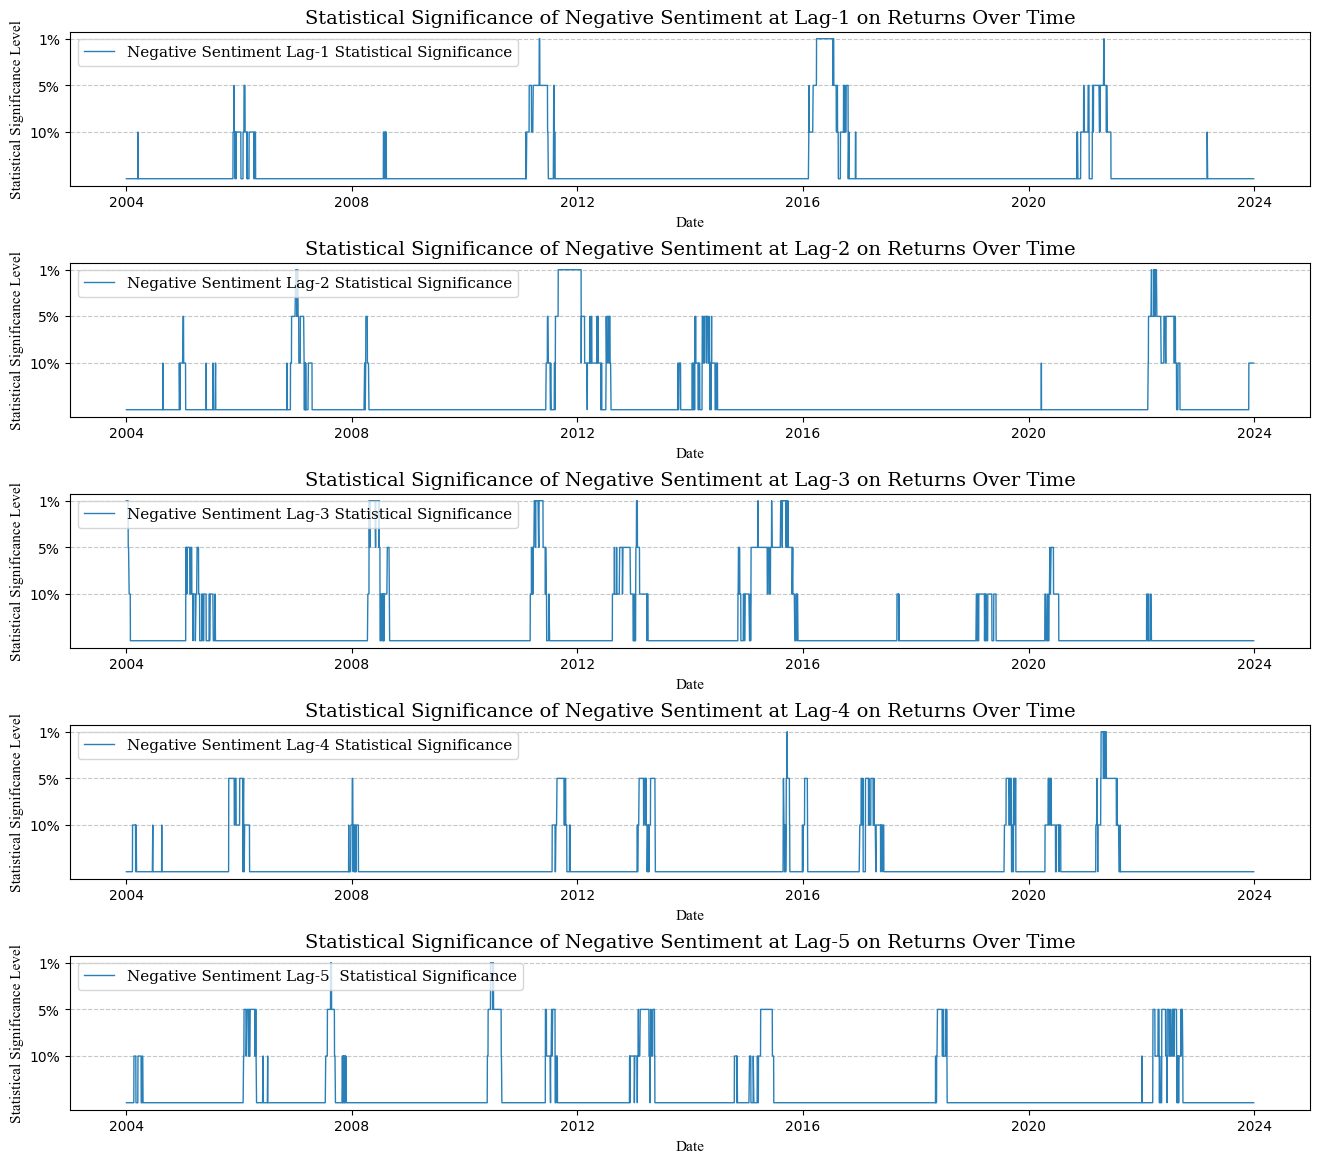
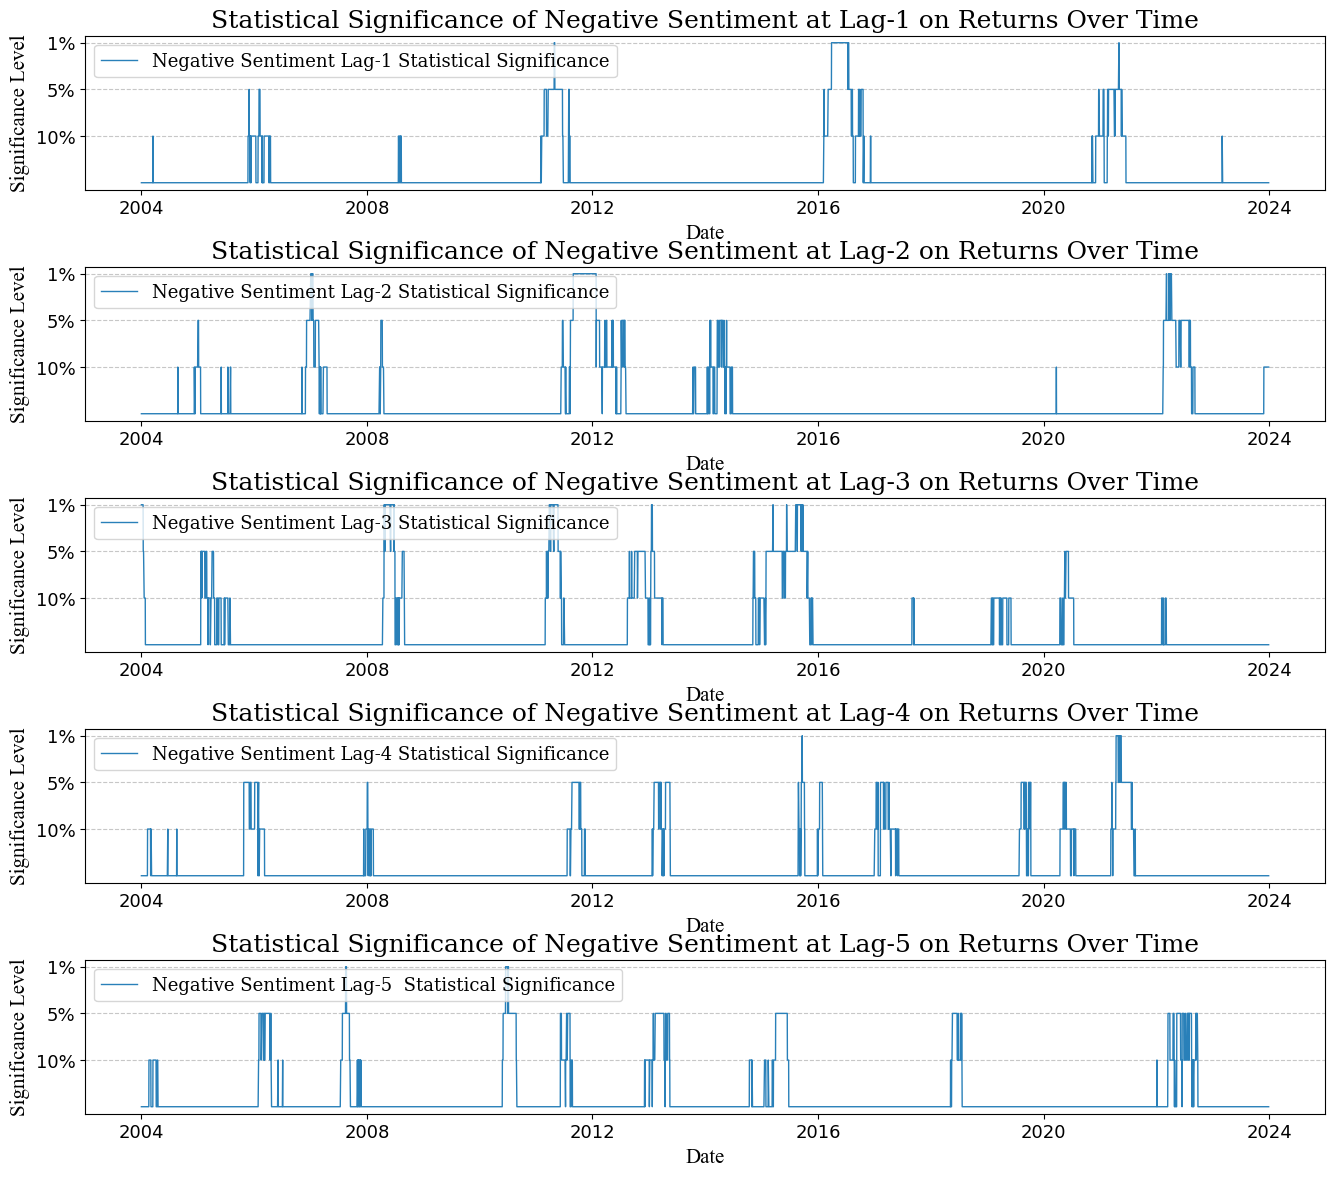
plots

diff --git a/Plot_Rolling_VAR_Results.py b/Plot_Rolling_VAR_Results.py
@@ -42,14 +42,14 @@ ax5.plot(datetime_objs, neg_significance_levels[4], label='Negative Sentiment La
 
 # Plot settings
 for i, ax in enumerate([ax1, ax2, ax3, ax4, ax5]):
-    ax.set_title(f'Statistical Significance of Negative Sentiment at Lag-{i+1} on Returns Over Time', fontsize=14, fontfamily='serif')
+    ax.set_title(f'Statistical Significance of Negative Sentiment at Lag-{i+1} on Returns Over Time', fontsize=18, fontfamily='serif')
     ax.xaxis.set_major_formatter(mdates.DateFormatter('%Y'))
-    ax.legend(fontsize=11, loc='upper left', prop={'family': 'serif', 'size': 11})
-    ax.set_xlabel('Date', fontsize=11, fontname='Times New Roman')
-    ax.set_ylabel('Statistical Significance Level', fontsize=11, fontname='Times New Roman')
+    ax.legend(fontsize=13, loc='upper left', prop={'family': 'serif', 'size': 13})
+    ax.set_xlabel('Date', fontsize=15, fontname='Times New Roman')
+    ax.set_ylabel('Significance Level', fontsize=15, fontname='Times New Roman')
     ax.set_yticks([1, 2, 3], ['10%', '5%', '1%'])
     ax.grid(axis='y', linestyle='--', alpha=0.7)
-    ax.tick_params(axis='both', which='major', labelsize=10)
+    ax.tick_params(axis='both', which='major', labelsize=13)
 
 plt.subplots_adjust(hspace=.5)
 plt.savefig('Plots/Returns_Negative_Sentiment_Significance.png', bbox_inches='tight')
@@ -81,14 +81,14 @@ ax5.plot(datetime_objs, count_significance_levels[4], label='Article Count Lag-5
 
 # Plot settings
 for i, ax in enumerate([ax1, ax2, ax3, ax4, ax5]):
-    ax.set_title(f'Statistical Significance of Article Count at Lag-{i+1} on Returns Over Time', fontsize=14, fontfamily='serif')
+    ax.set_title(f'Statistical Significance of Article Count at Lag-{i+1} on Returns Over Time', fontsize=18, fontfamily='serif')
     ax.xaxis.set_major_formatter(mdates.DateFormatter('%Y'))
-    ax.legend(fontsize=11, loc='upper left', prop={'family': 'serif', 'size': 11})
-    ax.set_xlabel('Date', fontsize=11, fontname='Times New Roman')
-    ax.set_ylabel('Statistical Significance Level', fontsize=11, fontname='Times New Roman')
+    ax.legend(fontsize=13, loc='upper left', prop={'family': 'serif', 'size': 13})
+    ax.set_xlabel('Date', fontsize=15, fontname='Times New Roman')
+    ax.set_ylabel('Significance Level', fontsize=15, fontname='Times New Roman')
     ax.set_yticks([1, 2, 3], ['10%', '5%', '1%'])
     ax.grid(axis='y', linestyle='--', alpha=0.7)
-    ax.tick_params(axis='both', which='major', labelsize=10)
+    ax.tick_params(axis='both', which='major', labelsize=13)
 
 plt.subplots_adjust(hspace=.5)
 plt.savefig('Plots/Returns_Article_Count_Significance.png', bbox_inches='tight')
@@ -132,14 +132,14 @@ ax5.plot(datetime_objs, neg_significance_levels[4], label='Negative Sentiment La
 
 # Plot settings
 for i, ax in enumerate([ax1, ax2, ax3, ax4, ax5]):
-    ax.set_title(f'Statistical Significance of Negative Sentiment at Lag-{i+1} on Absolute_Returns Over Time', fontsize=14, fontfamily='serif')
+    ax.set_title(f'Statistical Significance of Negative Sentiment at Lag-{i+1} on Absolute_Returns Over Time', fontsize=18, fontfamily='serif')
     ax.xaxis.set_major_formatter(mdates.DateFormatter('%Y'))
-    ax.legend(fontsize=11, loc='upper left', prop={'family': 'serif', 'size': 11})
-    ax.set_xlabel('Date', fontsize=11, fontname='Times New Roman')
-    ax.set_ylabel('Statistical Significance Level', fontsize=11, fontname='Times New Roman')
+    ax.legend(fontsize=13, loc='upper left', prop={'family': 'serif', 'size': 13})
+    ax.set_xlabel('Date', fontsize=15, fontname='Times New Roman')
+    ax.set_ylabel('Significance Level', fontsize=15, fontname='Times New Roman')
     ax.set_yticks([1, 2, 3], ['10%', '5%', '1%'])
     ax.grid(axis='y', linestyle='--', alpha=0.7)
-    ax.tick_params(axis='both', which='major', labelsize=10)
+    ax.tick_params(axis='both', which='major', labelsize=13)
 
 plt.subplots_adjust(hspace=.5)
 plt.savefig('Plots/Absolute_Returns_Negative_Sentiment_Significance.png', bbox_inches='tight')
@@ -171,14 +171,14 @@ ax5.plot(datetime_objs, count_significance_levels[4], label='Article Count Lag-5
 
 # Plot settings
 for i, ax in enumerate([ax1, ax2, ax3, ax4, ax5]):
-    ax.set_title(f'Statistical Significance of Article Count at Lag-{i+1} on Absolute_Returns Over Time', fontsize=14, fontfamily='serif')
+    ax.set_title(f'Statistical Significance of Article Count at Lag-{i+1} on Absolute_Returns Over Time', fontsize=18, fontfamily='serif')
     ax.xaxis.set_major_formatter(mdates.DateFormatter('%Y'))
-    ax.legend(fontsize=11, loc='upper left', prop={'family': 'serif', 'size': 11})
-    ax.set_xlabel('Date', fontsize=11, fontname='Times New Roman')
-    ax.set_ylabel('Statistical Significance Level', fontsize=11, fontname='Times New Roman')
+    ax.legend(fontsize=13, loc='upper left', prop={'family': 'serif', 'size': 13})
+    ax.set_xlabel('Date', fontsize=15, fontname='Times New Roman')
+    ax.set_ylabel('Significance Level', fontsize=15, fontname='Times New Roman')
     ax.set_yticks([1, 2, 3], ['10%', '5%', '1%'])
     ax.grid(axis='y', linestyle='--', alpha=0.7)
-    ax.tick_params(axis='both', which='major', labelsize=10)
+    ax.tick_params(axis='both', which='major', labelsize=13)
 
 plt.subplots_adjust(hspace=.5)
 plt.savefig('Plots/Absolute_Returns_Article_Count_Significance.png', bbox_inches='tight')

diff --git a/RYAAY_distribution.py b/RYAAY_distribution.py
@@ -88,9 +88,10 @@ def get_descriptive_stats(returns):
     data_kurtosis = kurtosis(returns)
     
     # Autocorrelation
-    lag = 10
+    lag = 5
     lags = range(1, lag + 1)
-    autocorrelations = [np.corrcoef(returns[:-lag], returns[lag:])[0, 1] for lag in lags]
+    df = pd.DataFrame(returns, columns=['Returns'])
+    autocorrelations = [df['Returns'].autocorr(lag=lag) for lag in lags]
     
     # Min / Max
     min_returns = min(returns)
@@ -208,7 +209,7 @@ plt.fill_between(x_values, normal_distribution, alpha=0.2, color='#e74c3c')
 plt.ylabel('Probability Density', fontsize=15, fontname='Times New Roman')
 plt.xlabel('Standard Deviations', fontsize=15, fontname='Times New Roman')
 plt.title('Distribution of RYAAY Returns and Normal Distribution', fontsize=18, fontfamily='serif')
-plt.legend(fontsize=10, prop={'family': 'serif', 'size': 12})
+plt.legend(fontsize=12, prop={'family': 'serif', 'size': 12})
 plt.grid(axis='y', linestyle='--', alpha=0.7)
 plt.tick_params(axis='both', which='major', labelsize=12)
 #plt.show()
